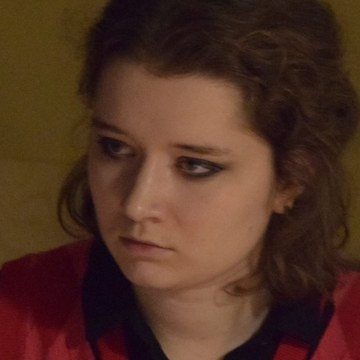
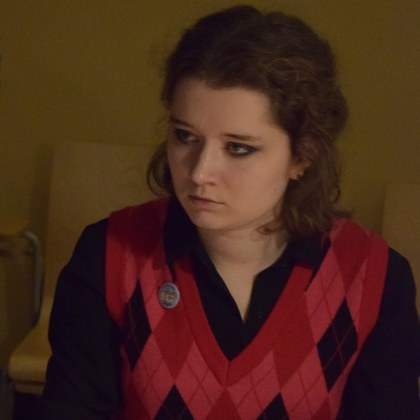
feat(deck): team photos for all, simpler team/pilot/vision, strong closing line
- Team: photos for all six (Margarita, Sofiia added; Ksenia wider crop),
  name + role only, heading 'Six students from TSI, Riga.'
- Pilot: '30-50 postboxes in five districts of Riga', shorter metrics list,
  'What we need from Latvijas Pasts' instead of the limited-investment line
- Vision & impact: four impact cards, next assets, 'Let's start with
  Latvijas Pasts in Riga - and continue to Europe.'
- Closing: 'Stop paying to collect air.' + thank you + QR

Claude-Session: https://claude.ai/code/session_01E6rQmba2r42MHZLCpao5h4

diff --git a/public/deck/dark.html b/public/deck/dark.html
@@ -161,15 +161,14 @@
   <!-- 8 TEAM -->
   <section class="slide" data-view="cityHigh" data-sec="Team" data-t="4:36">
     <p class="kicker rise">Team</p>
-    <h2 class="rise wide" style="--i:1">From sensor to route — <em>one team.</em></h2>
-    <p class="rise wide" style="--i:2;margin:-8px 0 18px">Engineering · robotics · data science · software development · business analysis <span class="st-inline" data-st="1">— <b>ready for integration and pilot testing.</b></span></p>
-    <div class="g3 wide rise" style="--i:3">
-      <div class="card member"><div class="ava" data-photo="assets/team/kira.jpg">K</div><h3>Kira Rud</h3><div class="role">Pitch &amp; presentation</div><p>Story, design and the voice of the project.</p></div>
-      <div class="card member"><div class="ava">M</div><h3>Margarita Rozkova</h3><div class="role">Frontend &amp; product</div><p>Dispatcher dashboard and landing page.</p></div>
-      <div class="card member"><div class="ava" data-photo="assets/team/alan.jpg">A</div><h3>Alan Arzumanjan</h3><div class="role">Backend &amp; IoT data</div><p>API, data from the box, routing, cost research.</p></div>
-      <div class="card member"><div class="ava">S</div><h3>Sofiia Ivanchenko</h3><div class="role">Presentation &amp; costs</div><p>Rollout cost per box and per city.</p></div>
-      <div class="card member"><div class="ava" data-photo="assets/team/alisa.jpg">A</div><h3>Alisa Donskaja</h3><div class="role">Prototype &amp; research</div><p>Postal network data, visuals, the device.</p></div>
-      <div class="card member"><div class="ava" data-photo="assets/team/ksenia.jpg">K</div><h3>Ksenia Kopteva</h3><div class="role">Prototype hardware</div><p>Sensors, wiring and firmware on the box.</p></div>
+    <h2 class="rise wide" style="--i:1">Six students from <em>TSI, Riga.</em></h2>
+    <div class="g3 wide team rise" style="--i:2">
+      <div class="card member"><div class="ava" data-photo="assets/team/kira.jpg">K</div><div class="nm"><b>Kira<br>Rud</b><span>Pitch &amp; presentation</span></div></div>
+      <div class="card member"><div class="ava" data-photo="assets/team/margarita.jpg">M</div><div class="nm"><b>Margarita<br>Rozkova</b><span>Frontend &amp; product</span></div></div>
+      <div class="card member"><div class="ava" data-photo="assets/team/alan.jpg">A</div><div class="nm"><b>Alan<br>Arzumanjan</b><span>Backend &amp; IoT data</span></div></div>
+      <div class="card member"><div class="ava" data-photo="assets/team/sofiia.jpg">S</div><div class="nm"><b>Sofiia<br>Ivanchenko</b><span>Presentation &amp; costs</span></div></div>
+      <div class="card member"><div class="ava" data-photo="assets/team/alisa.jpg">A</div><div class="nm"><b>Alisa<br>Donskaja</b><span>Prototype &amp; research</span></div></div>
+      <div class="card member"><div class="ava" data-photo="assets/team/ksenia.jpg">K</div><div class="nm"><b>Ksenia<br>Kopteva</b><span>Prototype hardware</span></div></div>
     </div>
     <aside class="notes">Behind EmptyLess is a multidisciplinary team in engineering, robotics, data science, software development and business analysis. We cover the whole solution, from sensor installation and data collection to backend, interfaces and route optimisation. We know that technology has to fit real operational processes and the people who use it. [click] We are ready to take responsibility for the next stage: integration and pilot testing.</aside>
   </section>
@@ -177,15 +176,13 @@
   <!-- 9 PILOT PROPOSAL & CALL TO ACTION -->
   <section class="slide" data-view="pilotBg" data-sec="Pilot" data-t="5:04">
     <div class="col" style="max-width:820px">
-      <p class="kicker rise">Pilot proposal &amp; call to action</p>
-      <h2 class="rise" style="--i:1">One practical step: a <em>4&#8209;week</em> pilot.</h2>
-      <p class="lead rise" style="--i:2"><b>30–50 postboxes</b> across five districts of Riga.</p>
+      <p class="kicker rise">Pilot proposal</p>
+      <h2 class="rise" style="--i:1"><em>30–50 postboxes</em> in five districts of Riga.</h2>
       <div class="measure" data-st="1">
-        <p class="small" style="margin:0 0 10px"><b>We will measure</b></p>
-        <span>Visits to empty postboxes</span><span>Sensor accuracy &amp; reliability</span><span>Unnecessary mileage</span>
-        <span>Fuel &amp; courier time</span><span>Environmental impact</span><span>Actual savings</span>
+        <p class="small" style="margin:0 0 10px"><b>We measure</b></p>
+        <span>Visits to empty postboxes</span><span>Sensor accuracy</span><span>Mileage &amp; fuel</span><span>Courier time</span><span>Actual savings</span>
       </div>
-      <p class="lead" data-st="2" style="margin-top:26px">A limited investment. A controlled experiment. <em class="acc">Measurable results.</em></p>
+      <div class="card need" data-st="2"><h3>What we need from Latvijas Pasts</h3><p>Access to the pilot postboxes, the current collection routes and one dispatcher to work with.</p></div>
     </div>
     <svg class="riga rise" style="--i:3" viewBox="-130 -110 260 220" aria-label="Schematic map of Riga with five pilot districts">
       <path class="sea" d="M-130 -110 H40 C10 -95 -20 -92 -45 -88 C-75 -84 -100 -70 -130 -62 Z"/>
@@ -198,35 +195,39 @@
       <g class="d" style="--d:2"><circle cx="-24" cy="10" r="14"/><circle class="core" cx="-24" cy="10" r="4"/><text x="-24" y="36">Āgenskalns</text></g>
       <g class="d" style="--d:3"><circle cx="55" cy="-10" r="14"/><circle class="core" cx="55" cy="-10" r="4"/><text x="55" y="-30">Purvciems</text></g>
       <g class="d" style="--d:4"><circle cx="60" cy="22" r="14"/><circle class="core" cx="60" cy="22" r="4"/><text x="60" y="46">Pļavnieki</text></g>
-      <text class="lbl note" x="125" y="104" text-anchor="end">Riga · schematic</text>
+      <text class="lbl note" x="118" y="104" text-anchor="end">Riga · schematic</text>
     </svg>
     <aside class="notes">We are not asking Latvijas Pasts to upgrade its network tomorrow. We propose one practical step: a four-week pilot with 30 to 50 postboxes across five districts of Riga: Purvciems, Pļavnieki, Imanta, Āgenskalns and Zolitūde. [click] We will measure how often couriers visit empty postboxes, sensor accuracy and reliability, unnecessary mileage, fuel use and courier time, environmental impact, and actual savings. [click] A limited investment, a controlled experiment and measurable results.</aside>
   </section>
 
-  <!-- 10 VISION -->
-  <section class="slide" data-view="network" data-sec="Vision" data-t="5:33">
+  <!-- 10 VISION & IMPACT -->
+  <section class="slide" data-view="network" data-sec="Vision &amp; impact" data-t="5:33">
     <div class="col" style="max-width:900px">
-      <p class="kicker rise">Vision</p>
-      <h1 class="rise" style="--i:1;font-size:92px">Postboxes are only <em>the beginning.</em></h1>
-      <div class="assets" data-st="1">
-        <span><i class="a-pb"></i>Postboxes</span><span><i class="a-wc"></i>Waste containers</span><span><i class="a-tx"></i>Textile donation points</span><span><i class="a-bt"></i>Battery recycling</span>
+      <p class="kicker rise">Vision &amp; impact</p>
+      <h2 class="rise" style="--i:1">Postboxes are only <em>the beginning.</em></h2>
+      <div class="impact" data-st="1">
+        <div><b>Fewer kilometres</b><span>less fuel and CO₂ on every route</span></div>
+        <div><b>Courier hours</b><span>spent on boxes that have mail</span></div>
+        <div><b>Postboxes stay</b><span>for elderly residents and small communities</span></div>
+        <div><b>Decisions on data</b><span>which boxes to keep, move or add</span></div>
       </div>
-      <p class="lead" data-st="2" style="margin-top:28px">Smarter infrastructure. More efficient operations. <em class="acc">Less waste.</em></p>
-      <p class="lead" data-st="3" style="margin-top:10px"><b>Let's start with Latvijas Pasts. Let's start with Riga.</b></p>
+      <div class="assets" data-st="2">
+        <span><i class="a-wc"></i>Waste containers</span><span><i class="a-tx"></i>Textile donation points</span><span><i class="a-bt"></i>Battery recycling</span><span><i class="a-pb"></i>Any asset on a fixed schedule</span>
+      </div>
+      <p class="lead" data-st="3" style="margin-top:28px"><b>Let's start with Latvijas Pasts in Riga — and continue to Europe.</b></p>
     </div>
-    <aside class="notes">Postboxes are only the beginning. [click] The same technology can serve waste containers, textile donation points, battery recycling stations and other infrastructure that is serviced on fixed schedules, without real-time information about its actual condition. [click] EmptyLess can turn these disconnected assets into intelligent, data-driven networks. Smarter infrastructure. More efficient operations. Less waste. [click] Let us start with Latvijas Pasts. Let us start with Riga.</aside>
+    <aside class="notes">Postboxes are only the beginning. [click] With real fill data, couriers drive fewer kilometres and burn less fuel, their hours go to boxes that actually have mail, and postboxes can stay where elderly residents and small communities need them, because decisions are made on data. [click] The same technology can serve waste containers, textile donation points, battery recycling stations and any infrastructure that is serviced on a fixed schedule without knowing its real condition. [click] Let us start with Latvijas Pasts in Riga, and continue to Europe.</aside>
   </section>
 
   <!-- 11 THANK YOU + CONTACT -->
   <section class="slide" data-view="endBg" data-sec="Contact" data-t="6:00">
     <div class="endtxt">
-      <p class="kicker rise">EmptyLess · RobotHack '26</p>
-      <h1 class="rise" style="--i:1">We are <em>EmptyLess.</em><br>Thank you.</h1>
-      <p class="lead rise" style="--i:2">Scan to email us</p>
+      <h1 class="rise" style="--i:1">Stop paying to <em>collect air.</em></h1>
+      <p class="lead rise" style="--i:2">We are <b>EmptyLess</b>. Thank you.</p>
       <p class="mail rise" style="--i:3">emptylessteam@gmail.com</p>
     </div>
     <div class="qrbig rise" style="--i:2"><img src="assets/qr-email.jpg" alt="QR code: email emptylessteam@gmail.com"></div>
-    <aside class="notes">We are EmptyLess. Thank you. [Hold this slide for a few seconds so the QR code can be scanned.]</aside>
+    <aside class="notes">Stop paying to collect air. We are EmptyLess. Thank you. [Hold this slide for a few seconds so the QR code can be scanned.]</aside>
   </section>
 
   <div id="sec"></div><div id="num"></div>

diff --git a/public/deck/index.html b/public/deck/index.html
@@ -160,15 +160,14 @@
   <!-- 8 TEAM -->
   <section class="slide" data-view="cityHigh" data-sec="Team" data-t="4:36">
     <p class="kicker rise">Team</p>
-    <h2 class="rise wide" style="--i:1">From sensor to route — <em>one team.</em></h2>
-    <p class="rise wide" style="--i:2;margin:-8px 0 18px">Engineering · robotics · data science · software development · business analysis <span class="st-inline" data-st="1">— <b>ready for integration and pilot testing.</b></span></p>
-    <div class="g3 wide rise" style="--i:3">
-      <div class="card member"><div class="ava" data-photo="assets/team/kira.jpg">K</div><h3>Kira Rud</h3><div class="role">Pitch &amp; presentation</div><p>Story, design and the voice of the project.</p></div>
-      <div class="card member"><div class="ava">M</div><h3>Margarita Rozkova</h3><div class="role">Frontend &amp; product</div><p>Dispatcher dashboard and landing page.</p></div>
-      <div class="card member"><div class="ava" data-photo="assets/team/alan.jpg">A</div><h3>Alan Arzumanjan</h3><div class="role">Backend &amp; IoT data</div><p>API, data from the box, routing, cost research.</p></div>
-      <div class="card member"><div class="ava">S</div><h3>Sofiia Ivanchenko</h3><div class="role">Presentation &amp; costs</div><p>Rollout cost per box and per city.</p></div>
-      <div class="card member"><div class="ava" data-photo="assets/team/alisa.jpg">A</div><h3>Alisa Donskaja</h3><div class="role">Prototype &amp; research</div><p>Postal network data, visuals, the device.</p></div>
-      <div class="card member"><div class="ava" data-photo="assets/team/ksenia.jpg">K</div><h3>Ksenia Kopteva</h3><div class="role">Prototype hardware</div><p>Sensors, wiring and firmware on the box.</p></div>
+    <h2 class="rise wide" style="--i:1">Six students from <em>TSI, Riga.</em></h2>
+    <div class="g3 wide team rise" style="--i:2">
+      <div class="card member"><div class="ava" data-photo="assets/team/kira.jpg">K</div><div class="nm"><b>Kira<br>Rud</b><span>Pitch &amp; presentation</span></div></div>
+      <div class="card member"><div class="ava" data-photo="assets/team/margarita.jpg">M</div><div class="nm"><b>Margarita<br>Rozkova</b><span>Frontend &amp; product</span></div></div>
+      <div class="card member"><div class="ava" data-photo="assets/team/alan.jpg">A</div><div class="nm"><b>Alan<br>Arzumanjan</b><span>Backend &amp; IoT data</span></div></div>
+      <div class="card member"><div class="ava" data-photo="assets/team/sofiia.jpg">S</div><div class="nm"><b>Sofiia<br>Ivanchenko</b><span>Presentation &amp; costs</span></div></div>
+      <div class="card member"><div class="ava" data-photo="assets/team/alisa.jpg">A</div><div class="nm"><b>Alisa<br>Donskaja</b><span>Prototype &amp; research</span></div></div>
+      <div class="card member"><div class="ava" data-photo="assets/team/ksenia.jpg">K</div><div class="nm"><b>Ksenia<br>Kopteva</b><span>Prototype hardware</span></div></div>
     </div>
     <aside class="notes">Behind EmptyLess is a multidisciplinary team in engineering, robotics, data science, software development and business analysis. We cover the whole solution, from sensor installation and data collection to backend, interfaces and route optimisation. We know that technology has to fit real operational processes and the people who use it. [click] We are ready to take responsibility for the next stage: integration and pilot testing.</aside>
   </section>
@@ -176,15 +175,13 @@
   <!-- 9 PILOT PROPOSAL & CALL TO ACTION -->
   <section class="slide" data-view="pilotBg" data-sec="Pilot" data-t="5:04">
     <div class="col" style="max-width:820px">
-      <p class="kicker rise">Pilot proposal &amp; call to action</p>
-      <h2 class="rise" style="--i:1">One practical step: a <em>4&#8209;week</em> pilot.</h2>
-      <p class="lead rise" style="--i:2"><b>30–50 postboxes</b> across five districts of Riga.</p>
+      <p class="kicker rise">Pilot proposal</p>
+      <h2 class="rise" style="--i:1"><em>30–50 postboxes</em> in five districts of Riga.</h2>
       <div class="measure" data-st="1">
-        <p class="small" style="margin:0 0 10px"><b>We will measure</b></p>
-        <span>Visits to empty postboxes</span><span>Sensor accuracy &amp; reliability</span><span>Unnecessary mileage</span>
-        <span>Fuel &amp; courier time</span><span>Environmental impact</span><span>Actual savings</span>
+        <p class="small" style="margin:0 0 10px"><b>We measure</b></p>
+        <span>Visits to empty postboxes</span><span>Sensor accuracy</span><span>Mileage &amp; fuel</span><span>Courier time</span><span>Actual savings</span>
       </div>
-      <p class="lead" data-st="2" style="margin-top:26px">A limited investment. A controlled experiment. <em class="acc">Measurable results.</em></p>
+      <div class="card need" data-st="2"><h3>What we need from Latvijas Pasts</h3><p>Access to the pilot postboxes, the current collection routes and one dispatcher to work with.</p></div>
     </div>
     <svg class="riga rise" style="--i:3" viewBox="-130 -110 260 220" aria-label="Schematic map of Riga with five pilot districts">
       <path class="sea" d="M-130 -110 H40 C10 -95 -20 -92 -45 -88 C-75 -84 -100 -70 -130 -62 Z"/>
@@ -197,35 +194,39 @@
       <g class="d" style="--d:2"><circle cx="-24" cy="10" r="14"/><circle class="core" cx="-24" cy="10" r="4"/><text x="-24" y="36">Āgenskalns</text></g>
       <g class="d" style="--d:3"><circle cx="55" cy="-10" r="14"/><circle class="core" cx="55" cy="-10" r="4"/><text x="55" y="-30">Purvciems</text></g>
       <g class="d" style="--d:4"><circle cx="60" cy="22" r="14"/><circle class="core" cx="60" cy="22" r="4"/><text x="60" y="46">Pļavnieki</text></g>
-      <text class="lbl note" x="125" y="104" text-anchor="end">Riga · schematic</text>
+      <text class="lbl note" x="118" y="104" text-anchor="end">Riga · schematic</text>
     </svg>
     <aside class="notes">We are not asking Latvijas Pasts to upgrade its network tomorrow. We propose one practical step: a four-week pilot with 30 to 50 postboxes across five districts of Riga: Purvciems, Pļavnieki, Imanta, Āgenskalns and Zolitūde. [click] We will measure how often couriers visit empty postboxes, sensor accuracy and reliability, unnecessary mileage, fuel use and courier time, environmental impact, and actual savings. [click] A limited investment, a controlled experiment and measurable results.</aside>
   </section>
 
-  <!-- 10 VISION -->
-  <section class="slide" data-view="network" data-sec="Vision" data-t="5:33">
+  <!-- 10 VISION & IMPACT -->
+  <section class="slide" data-view="network" data-sec="Vision &amp; impact" data-t="5:33">
     <div class="col" style="max-width:900px">
-      <p class="kicker rise">Vision</p>
-      <h1 class="rise" style="--i:1;font-size:92px">Postboxes are only <em>the beginning.</em></h1>
-      <div class="assets" data-st="1">
-        <span><i class="a-pb"></i>Postboxes</span><span><i class="a-wc"></i>Waste containers</span><span><i class="a-tx"></i>Textile donation points</span><span><i class="a-bt"></i>Battery recycling</span>
+      <p class="kicker rise">Vision &amp; impact</p>
+      <h2 class="rise" style="--i:1">Postboxes are only <em>the beginning.</em></h2>
+      <div class="impact" data-st="1">
+        <div><b>Fewer kilometres</b><span>less fuel and CO₂ on every route</span></div>
+        <div><b>Courier hours</b><span>spent on boxes that have mail</span></div>
+        <div><b>Postboxes stay</b><span>for elderly residents and small communities</span></div>
+        <div><b>Decisions on data</b><span>which boxes to keep, move or add</span></div>
       </div>
-      <p class="lead" data-st="2" style="margin-top:28px">Smarter infrastructure. More efficient operations. <em class="acc">Less waste.</em></p>
-      <p class="lead" data-st="3" style="margin-top:10px"><b>Let's start with Latvijas Pasts. Let's start with Riga.</b></p>
+      <div class="assets" data-st="2">
+        <span><i class="a-wc"></i>Waste containers</span><span><i class="a-tx"></i>Textile donation points</span><span><i class="a-bt"></i>Battery recycling</span><span><i class="a-pb"></i>Any asset on a fixed schedule</span>
+      </div>
+      <p class="lead" data-st="3" style="margin-top:28px"><b>Let's start with Latvijas Pasts in Riga — and continue to Europe.</b></p>
     </div>
-    <aside class="notes">Postboxes are only the beginning. [click] The same technology can serve waste containers, textile donation points, battery recycling stations and other infrastructure that is serviced on fixed schedules, without real-time information about its actual condition. [click] EmptyLess can turn these disconnected assets into intelligent, data-driven networks. Smarter infrastructure. More efficient operations. Less waste. [click] Let us start with Latvijas Pasts. Let us start with Riga.</aside>
+    <aside class="notes">Postboxes are only the beginning. [click] With real fill data, couriers drive fewer kilometres and burn less fuel, their hours go to boxes that actually have mail, and postboxes can stay where elderly residents and small communities need them, because decisions are made on data. [click] The same technology can serve waste containers, textile donation points, battery recycling stations and any infrastructure that is serviced on a fixed schedule without knowing its real condition. [click] Let us start with Latvijas Pasts in Riga, and continue to Europe.</aside>
   </section>
 
   <!-- 11 THANK YOU + CONTACT -->
   <section class="slide" data-view="endBg" data-sec="Contact" data-t="6:00">
     <div class="endtxt">
-      <p class="kicker rise">EmptyLess · RobotHack '26</p>
-      <h1 class="rise" style="--i:1">We are <em>EmptyLess.</em><br>Thank you.</h1>
-      <p class="lead rise" style="--i:2">Scan to email us</p>
+      <h1 class="rise" style="--i:1">Stop paying to <em>collect air.</em></h1>
+      <p class="lead rise" style="--i:2">We are <b>EmptyLess</b>. Thank you.</p>
       <p class="mail rise" style="--i:3">emptylessteam@gmail.com</p>
     </div>
     <div class="qrbig rise" style="--i:2"><img src="assets/qr-email.jpg" alt="QR code: email emptylessteam@gmail.com"></div>
-    <aside class="notes">We are EmptyLess. Thank you. [Hold this slide for a few seconds so the QR code can be scanned.]</aside>
+    <aside class="notes">Stop paying to collect air. We are EmptyLess. Thank you. [Hold this slide for a few seconds so the QR code can be scanned.]</aside>
   </section>
 
   <div id="sec"></div><div id="num"></div>

diff --git a/public/deck/css/deck.css b/public/deck/css/deck.css
@@ -321,3 +321,30 @@ html[data-theme=light] .pi{background:#f3f6f8}
 .parts{gap:18px}
 .pgroup{padding:18px 16px 20px}
 .pi{height:350px}
+
+/* team v2: photo + name + role */
+.team{margin-top:26px}
+.team .member{grid-template-columns:170px 1fr;padding:22px 26px;align-items:center}
+.team .member .ava{grid-row:1 / span 2;width:170px;height:170px}
+.team .member h3{font-size:32px;align-self:end}
+.team .member .role{align-self:start;font-size:22px;margin-top:6px}
+/* pilot */
+.card.need{margin-top:26px;padding:22px 28px;border-left:6px solid var(--acc)}
+.card.need h3{margin:0 0 6px}.card.need p{font-size:24px;margin:0}
+/* vision impact */
+.impact{display:grid;grid-template-columns:1fr 1fr;gap:14px;margin-top:10px}
+.impact div{background:var(--panel);border:1px solid var(--line);border-radius:18px;padding:16px 20px;box-shadow:var(--shadow)}
+.impact b{display:block;font-size:27px}.impact span{font-size:20px;color:var(--mute)}
+.assets{margin-top:16px}.assets span{font-size:22px;padding:12px 16px}
+/* closing */
+.endtxt h1{font-size:110px}
+.team{gap:26px;margin-top:34px}
+.team .member{grid-template-columns:210px 1fr;padding:26px 28px}
+.team .member .ava{width:210px;height:210px}
+.team .member .role{white-space:nowrap;font-size:20px;letter-spacing:1px}
+.g3.team{grid-template-columns:repeat(3,minmax(0,1fr))}
+.team .member{display:flex;flex-direction:row;align-items:center;gap:26px;padding:24px 26px}
+.team .member .ava{flex:none;width:200px;height:200px}
+.team .member>h3,.team .member>.role{display:none}
+.team .member .nm b{display:block;font-size:31px;line-height:1.15}
+.team .member .nm span{display:block;margin-top:10px;font-size:19px;font-weight:800;letter-spacing:1.2px;text-transform:uppercase;color:var(--acc);line-height:1.3}

diff --git a/public/deck/SCRIPT.md b/public/deck/SCRIPT.md
@@ -1,6 +1,6 @@
 # EmptyLess — voiceover script (EN)
 
-Kira's pitch script, split into slides; slide 7 is Ksenia's text about the prototype components. `[click]` = press → (next step). Text in square brackets that is not `[click]` is a stage note. In the deck press **N** to see this text, the planned time and a running clock.
+`[click]` = press → (next step). Text in square brackets that is not `[click]` is a stage note. In the deck press **N** to see this text, the planned time and a running clock.
 
 ## 1. Hook — 0:00
 
@@ -38,10 +38,10 @@ Behind EmptyLess is a multidisciplinary team in engineering, robotics, data scie
 
 We are not asking Latvijas Pasts to upgrade its network tomorrow. We propose one practical step: a four-week pilot with 30 to 50 postboxes across five districts of Riga: Purvciems, Pļavnieki, Imanta, Āgenskalns and Zolitūde. [click] We will measure how often couriers visit empty postboxes, sensor accuracy and reliability, unnecessary mileage, fuel use and courier time, environmental impact, and actual savings. [click] A limited investment, a controlled experiment and measurable results.
 
-## 10. Vision — 5:33
+## 10. Vision & impact — 5:33
 
-Postboxes are only the beginning. [click] The same technology can serve waste containers, textile donation points, battery recycling stations and other infrastructure that is serviced on fixed schedules, without real-time information about its actual condition. [click] EmptyLess can turn these disconnected assets into intelligent, data-driven networks. Smarter infrastructure. More efficient operations. Less waste. [click] Let us start with Latvijas Pasts. Let us start with Riga.
+Postboxes are only the beginning. [click] With real fill data, couriers drive fewer kilometres and burn less fuel, their hours go to boxes that actually have mail, and postboxes can stay where elderly residents and small communities need them, because decisions are made on data. [click] The same technology can serve waste containers, textile donation points, battery recycling stations and any infrastructure that is serviced on a fixed schedule without knowing its real condition. [click] Let us start with Latvijas Pasts in Riga, and continue to Europe.
 
 ## 11. Contact — 6:00
 
-We are EmptyLess. Thank you. [Hold this slide for a few seconds so the QR code can be scanned.]
+Stop paying to collect air. We are EmptyLess. Thank you. [Hold this slide for a few seconds so the QR code can be scanned.]
